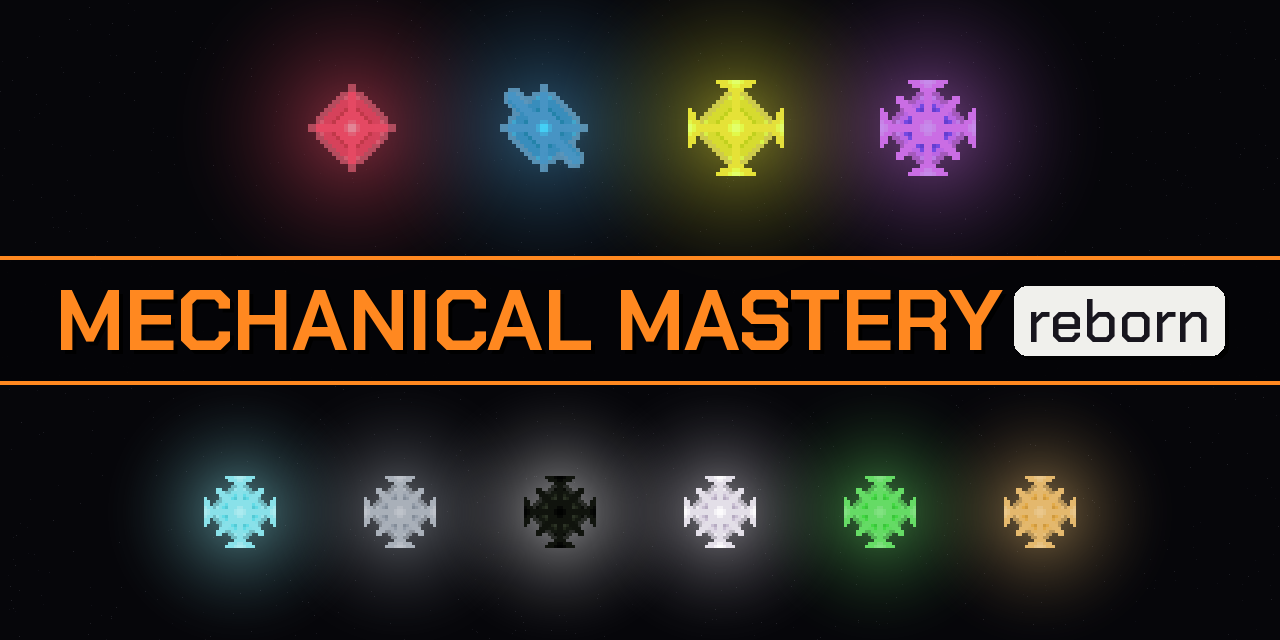
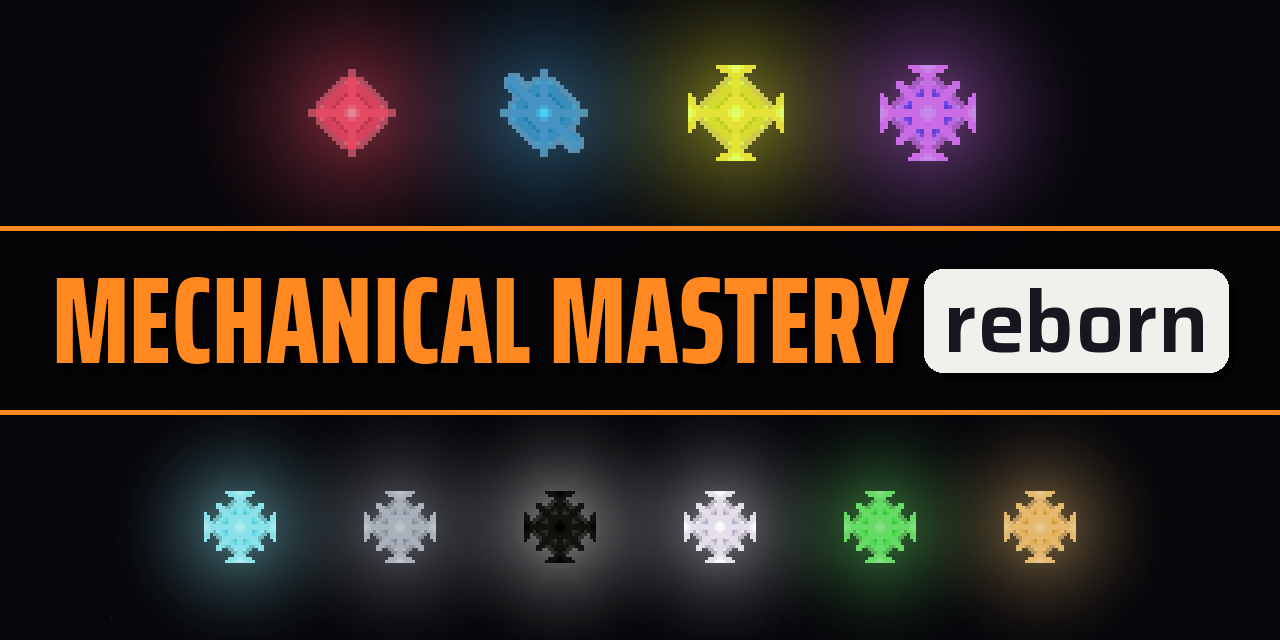
Reborn's covers set their title in Saira Extra Condensed and their pill in Saira (#274)

diff --git a/MMR26.1.2/publish/make-cover.py b/MMR26.1.2/publish/make-cover.py
@@ -16,15 +16,16 @@
 #   - above the title band, the four tier essences in a row, lowest first, scaled up nearest-neighbour,
 #     each glowing in its own colour;
 #   - the band, dark, ruled top and bottom in the accent, holding the suite's title turned around, as
-#     A Touch of Darkness's is: "MECHANICAL MASTERY" in Chakra Petch caps, in the accent's
+#     A Touch of Darkness's is: "MECHANICAL MASTERY" in Saira Extra Condensed caps, in the accent's
 #     orange, then the suite's white pill holding "reborn". The icon stacks them;
 #   - beneath the band, the four Transmuted Essences with Nullessence and Quintessence, the last
 #     stand's two sides, paired in their middle.
 #
 # Its art is the companion mod's own textures only (mod/NOTICE), nothing of Mojang's. Its fonts are
-# found on the system, with fallbacks; none is committed. Chakra Petch is a Google Font (SIL OFL),
-# installed by hand, its Bold for the title and its Medium for the pill; without it the title falls
-# back to Impact and the pill to Arial Black, which every run there draws the same, if not as designed.
+# found on the system, with fallbacks; none is committed. Saira Extra Condensed and Saira are Google
+# Fonts (SIL OFL), installed by hand, the first's ExtraBold for the title and the second's SemiBold
+# for the pill, static or variable; without them the title falls back to Impact and the pill to
+# Arial Black, which every run there draws the same, if not as designed.
 import math
 import os
 import random
@@ -49,12 +50,13 @@ TIERS = ['basic_mechanical_essence', 'regular_mechanical_essence', 'improved_mec
 TRANSMUTED = ['galvanic_essence', 'warding_essence', 'vital_essence', 'aureate_essence']
 LAST_STAND = ['nullessence', 'quintessence']
 TITLE, WORD = 'MECHANICAL MASTERY', 'reborn'
-FONTS = ['~/Library/Fonts/', '/Library/Fonts/', '~/.local/share/fonts/chakrapetch/', '~/.local/share/fonts/',
-         '/usr/share/fonts/TTF/', '/usr/share/fonts/truetype/chakra-petch/']
-TITLE_FONT = [d + 'ChakraPetch-Bold.ttf' for d in FONTS] + [
+FONTS = ['~/Library/Fonts/', '/Library/Fonts/', '~/.local/share/fonts/saira/', '~/.local/share/fonts/',
+         '/usr/share/fonts/TTF/', '/usr/share/fonts/truetype/saira/']
+# a font is a path, or a path and the named instance of a variable font
+TITLE_FONT = [d + 'SairaExtraCondensed-ExtraBold.ttf' for d in FONTS] + [
     '/System/Library/Fonts/Supplemental/Impact.ttf', '/usr/share/fonts/TTF/impact.ttf',
     '~/.local/share/fonts/msfonts/impact.ttf', '/usr/share/fonts/noto/NotoSans-Black.ttf']
-WORD_FONT = [d + 'ChakraPetch-Medium.ttf' for d in FONTS] + [
+WORD_FONT = [f for d in FONTS for f in [d + 'Saira-SemiBold.ttf', (d + 'Saira[wdth,wght].ttf', 'SemiBold')]] + [
     '/System/Library/Fonts/Supplemental/Arial Black.ttf', '/usr/share/fonts/TTF/ariblk.ttf',
     '~/.local/share/fonts/msfonts/ariblk.ttf', '/usr/share/fonts/noto/NotoSans-Black.ttf']
 WORD_SCALE = 0.7  # the pill's word against the title
@@ -109,10 +111,15 @@ def void(W, H):
 
 
 def font(names, size):
-    for n in map(os.path.expanduser, names):
-        if os.path.exists(n):
-            return ImageFont.truetype(n, size)
-    raise SystemExit('needs one of ' + ', '.join(names))
+    for n in names:
+        path, instance = n if isinstance(n, tuple) else (n, None)
+        path = os.path.expanduser(path)
+        if os.path.exists(path):
+            f = ImageFont.truetype(path, size)
+            if instance:
+                f.set_variation_by_name(instance)
+            return f
+    raise SystemExit('needs one of ' + ', '.join(n if isinstance(n, str) else n[0] for n in names))
 
 
 def make(out, W, H, title_size, px, under_px, stacked=False):
@@ -170,9 +177,9 @@ def make(out, W, H, title_size, px, under_px, stacked=False):
 
 
 # each image: where it goes, its size, its title's largest size and its essences' sizes
-COVER = ('publish/reborn-cover.png', 1280, 640, 96, 128, 96)
-ICON = ('publish/reborn-icon.png', 512, 512, 92, 64, 64)
-CARD = ('publish/reborn-card.png', 1920, 1080, 144, 192, 128)
+COVER = ('publish/reborn-cover.png', 1280, 640, 128, 128, 96)
+ICON = ('publish/reborn-icon.png', 512, 512, 112, 64, 64)
+CARD = ('publish/reborn-card.png', 1920, 1080, 192, 192, 128)
 
 make(*COVER)
 make(*ICON, stacked=True)

diff --git a/MMR26.1.2/mod/publish/make-cover.py b/MMR26.1.2/mod/publish/make-cover.py
@@ -14,14 +14,15 @@
 #   - a wall of the Recycler's casing, drive and vent textures, tiled nearest-neighbour as Beltworks'
 #     tiles its belts, in a fixed pattern so every run draws the same image, dimmed so the title reads;
 #   - the title band, dark, ruled top and bottom in the accent, holding the suite's title turned
-#     around, as A Touch of Darkness's is: "MECHANICAL MASTERY" in Chakra Petch caps, in the accent's
+#     around, as A Touch of Darkness's is: "MECHANICAL MASTERY" in Saira Extra Condensed caps, in the accent's
 #     orange, then the suite's white pill holding "core". The icon stacks them.
 #
 # Its art is the mod's own textures only, Malcolm Riley's Recycler textures (NOTICE), nothing of
-# Mojang's. Its fonts are found on the system, with fallbacks; none is committed. Chakra Petch is a
-# Google Font (SIL OFL), installed by hand, its Bold for the title and its Medium for the pill;
-# without it the title falls back to Impact and the pill to Arial Black, which every run there draws
-# the same, if not as designed.
+# Mojang's. Its fonts are found on the system, with fallbacks; none is committed. Saira Extra
+# Condensed and Saira are Google Fonts (SIL OFL), installed by hand, the first's ExtraBold for the
+# title and the second's SemiBold for the pill, static or variable; without them the title falls
+# back to Impact and the pill to Arial Black, which every run there draws the same, if not as
+# designed.
 import os
 
 from PIL import Image, ImageDraw, ImageFont
@@ -35,12 +36,13 @@ ACCENT = (255, 136, 32)  # orange, a machine's warning paint, apart from every e
 PILL = (240, 240, 236)
 PILL_TEXT = (24, 22, 30)
 TITLE, WORD = 'MECHANICAL MASTERY', 'core'
-FONTS = ['~/Library/Fonts/', '/Library/Fonts/', '~/.local/share/fonts/chakrapetch/', '~/.local/share/fonts/',
-         '/usr/share/fonts/TTF/', '/usr/share/fonts/truetype/chakra-petch/']
-TITLE_FONT = [d + 'ChakraPetch-Bold.ttf' for d in FONTS] + [
+FONTS = ['~/Library/Fonts/', '/Library/Fonts/', '~/.local/share/fonts/saira/', '~/.local/share/fonts/',
+         '/usr/share/fonts/TTF/', '/usr/share/fonts/truetype/saira/']
+# a font is a path, or a path and the named instance of a variable font
+TITLE_FONT = [d + 'SairaExtraCondensed-ExtraBold.ttf' for d in FONTS] + [
     '/System/Library/Fonts/Supplemental/Impact.ttf', '/usr/share/fonts/TTF/impact.ttf',
     '~/.local/share/fonts/msfonts/impact.ttf', '/usr/share/fonts/noto/NotoSans-Black.ttf']
-WORD_FONT = [d + 'ChakraPetch-Medium.ttf' for d in FONTS] + [
+WORD_FONT = [f for d in FONTS for f in [d + 'Saira-SemiBold.ttf', (d + 'Saira[wdth,wght].ttf', 'SemiBold')]] + [
     '/System/Library/Fonts/Supplemental/Arial Black.ttf', '/usr/share/fonts/TTF/ariblk.ttf',
     '~/.local/share/fonts/msfonts/ariblk.ttf', '/usr/share/fonts/noto/NotoSans-Black.ttf']
 WORD_SCALE = 0.7  # the pill's word against the title
@@ -60,10 +62,15 @@ def wall(W, H, tile):
 
 
 def font(names, size):
-    for n in map(os.path.expanduser, names):
-        if os.path.exists(n):
-            return ImageFont.truetype(n, size)
-    raise SystemExit('needs one of ' + ', '.join(names))
+    for n in names:
+        path, instance = n if isinstance(n, tuple) else (n, None)
+        path = os.path.expanduser(path)
+        if os.path.exists(path):
+            f = ImageFont.truetype(path, size)
+            if instance:
+                f.set_variation_by_name(instance)
+            return f
+    raise SystemExit('needs one of ' + ', '.join(n if isinstance(n, str) else n[0] for n in names))
 
 
 def make(out, W, H, title_size, tile, stacked=False):
@@ -116,8 +123,8 @@ def make(out, W, H, title_size, tile, stacked=False):
 
 
 # each image: where it goes, its size, its title's largest size and its wall tiles' size
-COVER = ('publish/mechanicalmasteryreborn-cover.png', 1280, 640, 104, 80)
-ICON = ('publish/mechanicalmasteryreborn-icon.png', 512, 512, 92, 64)
+COVER = ('publish/mechanicalmasteryreborn-cover.png', 1280, 640, 140, 80)
+ICON = ('publish/mechanicalmasteryreborn-icon.png', 512, 512, 116, 64)
 
 make(*COVER)
 make(*ICON, stacked=True)
